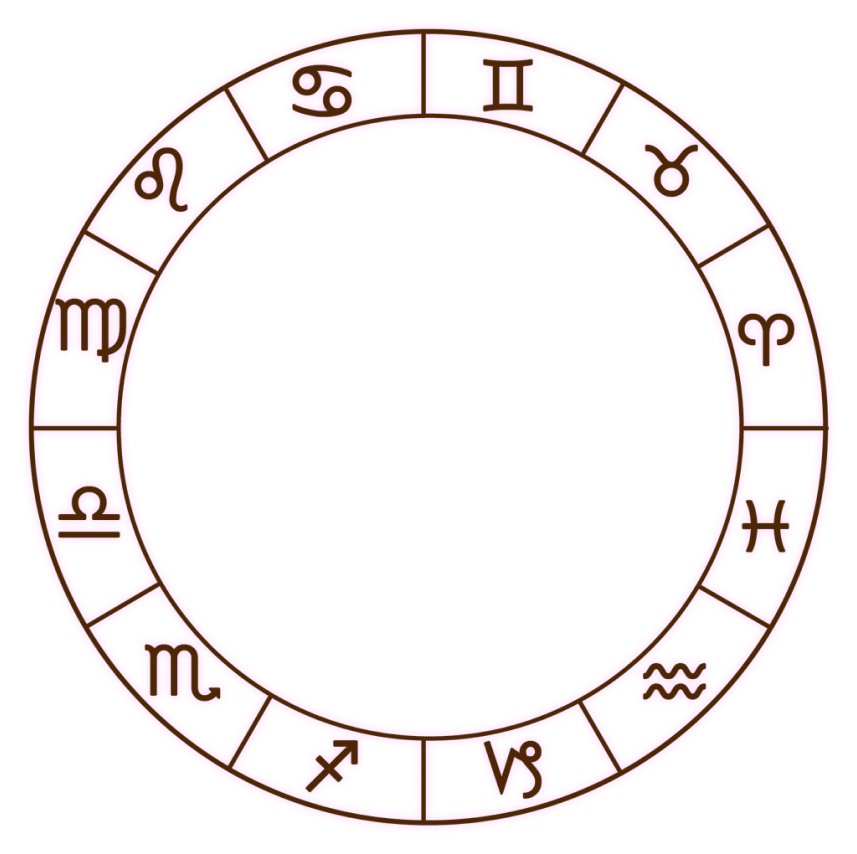
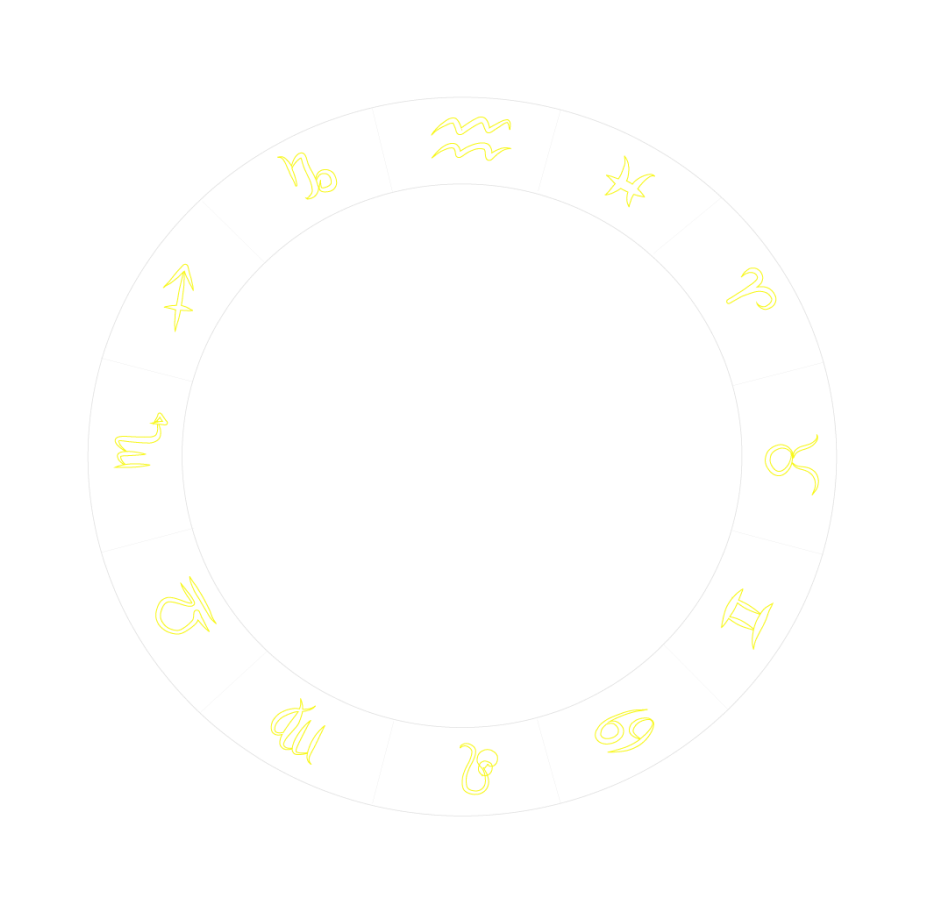
[UPDATE] Change Zodiac Pic and adjust some size

diff --git a/components/Home/ZodiacRing.js b/components/Home/ZodiacRing.js
@@ -17,8 +17,8 @@ const ZodiacRingImage = styled.img`
     position: absolute;
 
     @media (min-width: 1024px) {
-        width: 766px;
-        height: 764px;
+        width: 942px;
+        height: 898px;
         animation: ${spin} 60s linear infinite,${Zodiacglow} 2s ease-in-out alternate infinite;
     }
 `

diff --git a/components/Home/index.js b/components/Home/index.js
@@ -16,7 +16,7 @@ const ZodiacContainer = styled.div`
 const LogoImg = styled.img`
     width: 467px;
     height: 175px;
-    margin-top:300px;
+    margin-top:350px;
 `
 
 export default class Home extends Component {
